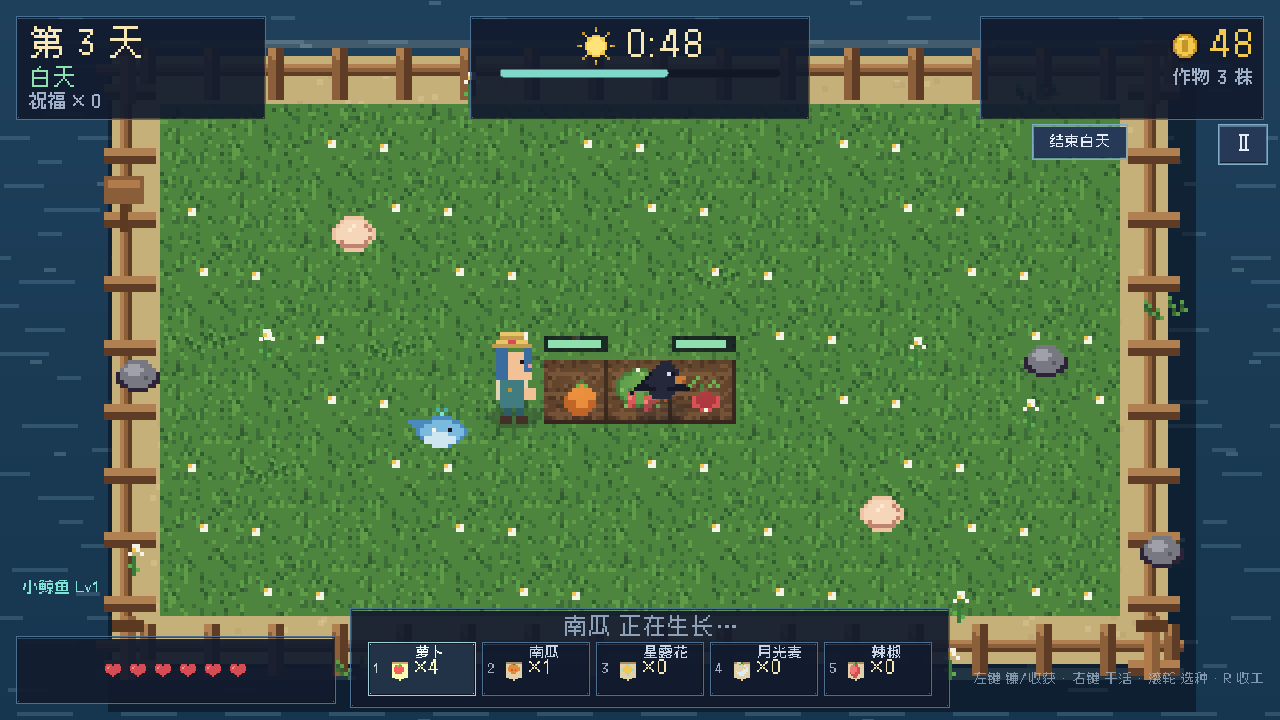
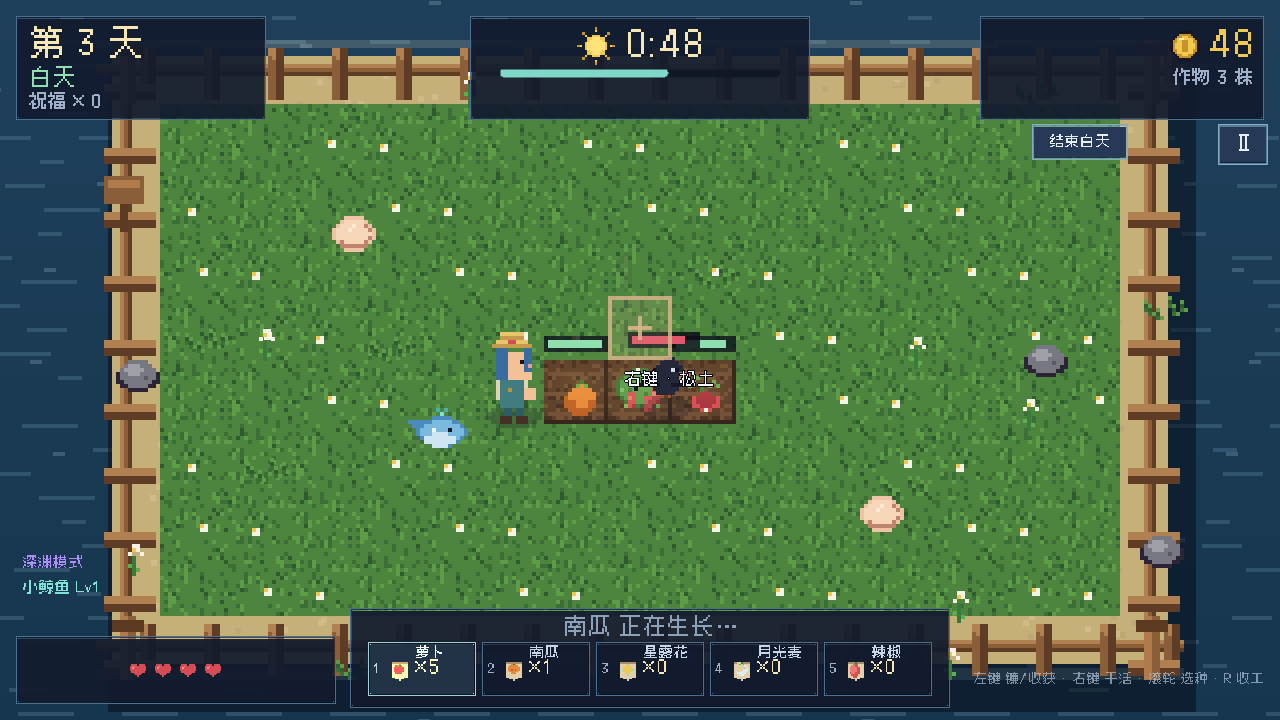
v2.4.0: abyss difficulty, charge/thorns, double wave, boss radial phases

diff --git a/README.md b/README.md
@@ -14,11 +14,12 @@
 ![雾港](screenshots/shot_mist.png)
 ![鼠标交互](screenshots/shot_mouse.png)
 ![白天活动](screenshots/shot_daylife.png)
+![深渊](screenshots/shot_abyss.png)
 ![南瓜王](screenshots/shot_boss.png)
 
 ## 玩法
 
-- **白天（75 秒）**：走到田里，按互动键松土 → 播种 → 浇水 → 收获。作物只在浇过水之后生长。
+- **白天（80 秒）**：走到田里，按互动键松土 → 播种 → 浇水 → 收获。作物只在浇过水之后生长。
 - **天气**：每天有雨天、雾天、雷雨等随机天气。雨天/雷雨会自动浇灌所有作物（包括新种下的）；雾天视野变灰；雷雨会闪电并配雨声。
 - **夜晚**：潮水带来史莱姆、偷穗鸦、缠根怪、沼泽蛙和铁甲虫。用镰刀清场；乌鸦会优先啃食成熟的作物。萤火虫会飘在田上。
 - **黎明**：三选一随机祝福，然后可以在**潮汐商店**用金币买种子、回血、加生命上限。
@@ -80,24 +81,27 @@
 
 ## 难度
 
-标题界面的「难度」按钮循环切换，默认 **困难**：
+标题界面的「难度」按钮循环切换四档，默认 **困难**；想要真上强度就选 **深渊**：
 
 | 难度 | 初始生命 | 初始金币 | 敌人生命 | 敌人速度 | 夜潮数量 | 刷怪间隔 | 海鸥频率 |
 | --- | --- | --- | --- | --- | --- | --- | --- |
 | 休闲 | 7 | 22 | ×0.90 | ×0.95 | ×0.85 | ×1.15 | ×1.30 |
 | 标准 | 6 | 18 | ×1.00 | ×1.00 | ×1.00 | ×1.00 | ×1.00 |
 | 困难 | 5 | 12 | ×1.35 | ×1.30 | ×1.45 | ×0.75 | ×0.65 |
+| 深渊 | 4 | 8 | ×1.55 | ×1.45 | ×1.80 | ×0.62 | ×0.50 |
 
-- 敌人速度还会随天数增长（每天 +4.5%），困难模式的无敌帧也从 0.9s 缩到约 0.59s。
-- 困难模式普通怪出生时额外 +5% 精英概率；Boss 同样吃生命/速度倍率。
+- 敌人速度还会随天数增长（每天 +4.5%）；困难无敌帧约 0.59s，深渊约 0.45s。
+- **困难/深渊专属能力**：史莱姆会蓄力冲锋；缠根怪会远程发射绿色棘刺。
+- **深渊双波**：清完第一波后不会直接结束夜晚，会再刷一波约 70% 数量的怪。
+- **Boss 多阶段**：66% / 33% 血量时召唤小怪并各放一次 8/12 发环形种子弹幕，阶段越高射速越快。
 - 难度写在存档设置里；一局开始后不能改，回到标题再切。
 
 ## 下载
 
 到 [Releases](https://github.com/ElectLive/whale-fall-farm/releases) 下载最新版：
 
-- Windows：`WhaleFallFarm-v2.3.0-win64.zip` — 解压双击 `WhaleFallFarm.exe`，绿色免安装，存档在 exe 旁边。
-- Android：`WhaleFallFarm-v2.3.0-android.apk` — Android 7.0+ / arm64，允许「安装未知来源应用」即可安装。APK 使用调试证书签名，适合直接安装试玩，不适合上架应用商店。
+- Windows：`WhaleFallFarm-v2.4.0-win64.zip` — 解压双击 `WhaleFallFarm.exe`，绿色免安装，存档在 exe 旁边。
+- Android：`WhaleFallFarm-v2.4.0-android.apk` — Android 7.0+ / arm64，允许「安装未知来源应用」即可安装。APK 使用调试证书签名，适合直接安装试玩，不适合上架应用商店。
 
 ## 从源码运行
 
@@ -142,7 +146,7 @@ python tools/gen_audio.py   # 4 首循环 BGM + 17 个音效 + 1 条雨声（需
 
 ```bash
 # 无头逻辑测试：种田、昼夜、商店、祝福、Boss、无尽、天气、移动端触控、存档
-Godot --headless --path . -- --selftest     # 85/85 PASS
+Godot --headless --path . -- --selftest     # 91/91 PASS
 
 # 实时冒烟测试：真的种一轮、传送到怪身边砍死几只、进入黎明
 Godot --headless --path . -- --smoke
@@ -208,6 +212,7 @@ docs/
 - **v2.1.0** — 鼠标交互重做：左键点地移动/点田干活、右键挥镰、滚轮选种、悬停高亮与操作提示、点击落点圆环、HUD 暂停按钮；左键不再误触攻击。
 - **v2.2.0** — 左键攻击/收获，右键移动/松土/播种/浇水；白天新增偷菜海鸥、贝壳/海星采集、R/「结束白天」提前收工（作物按剩余时间生长）。
 - **v2.3.0** — 三档难度（默认困难）：困难模式敌人生命/速度/数量全面上调、刷怪更快、海鸥更频繁、初始 5 血 12 金、无敌帧更短；标题界面可切。
+- **v2.4.0** — 第四档「深渊」：4 血 8 金、敌人 ×1.55 生命/×1.45 速度/×1.80 数量；史莱姆冲锋、缠根怪远程棘刺、深渊夜晚双波；Boss 66%/33% 血量环形弹幕与更快射速。
 
 ## 20 次更新记录
 

diff --git a/CHANGELOG.md b/CHANGELOG.md
@@ -3,6 +3,21 @@
 All notable changes to Whale Fall Farm are documented here.
 Format follows [Keep a Changelog](https://keepachangelog.com/); versions use semver.
 
+## v2.4.0 — 2026-10-30
+
+### Added
+
+- **Fourth difficulty 深渊 (Abyss)**: 4 HP, 8 gold, enemy HP ×1.55, speed ×1.45, wave count ×1.80, spawn ×0.62, gull ×0.50, invuln ×0.50, elite +10%.
+- **Enemy abilities** on hard/abyss: slimes charge-dash at close range; vines fire green thorn projectiles.
+- **Abyss double wave**: after clearing the first night wave, a second wave at 70% strength spawns before dawn.
+- **Boss multi-phase attacks**: at 66% / 33% HP the Pumpkin King summons and fires 8 / 12 radial seed bursts; attack cooldown drops with phase.
+- `--shot=abyss` scenario; selftest covers abyss stats, charge, thorns, second wave and radial burst.
+
+### Changed
+
+- Title difficulty cycle now covers four levels; HUD label adds 深渊模式.
+- Difficulty arrays extended; default remains 困难.
+
 ## v2.3.0 — 2026-10-30
 
 ### Added
@@ -218,7 +233,8 @@ Format follows [Keep a Changelog](https://keepachangelog.com/); versions use sem
 - Fully procedural pixel art (Pillow), chiptune music and SFX (numpy), Cubic 11 font.
 - Headless self-test (`--selftest`), real-time smoke test (`--smoke`), screenshot tooling.
 
-[Unreleased]: https://github.com/ElectLive/whale-fall-farm/compare/v2.3.0...main
+[Unreleased]: https://github.com/ElectLive/whale-fall-farm/compare/v2.4.0...main
+[v2.4.0]: https://github.com/ElectLive/whale-fall-farm/releases/tag/v2.4.0
 [v2.3.0]: https://github.com/ElectLive/whale-fall-farm/releases/tag/v2.3.0
 [v2.2.0]: https://github.com/ElectLive/whale-fall-farm/releases/tag/v2.2.0
 [v2.1.0]: https://github.com/ElectLive/whale-fall-farm/releases/tag/v2.1.0

diff --git a/docs/design.md b/docs/design.md
@@ -122,9 +122,18 @@
 | 休闲 | 7 | 22 | 0.90 | 0.95 | 0.85 | 1.15 | 1.30 | 1.10 | 0 |
 | 标准 | 6 | 18 | 1.00 | 1.00 | 1.00 | 1.00 | 1.00 | 1.00 | 0 |
 | 困难 | 5 | 12 | 1.35 | 1.30 | 1.45 | 0.75 | 0.65 | 0.65 | +5% |
+| 深渊 | 4 | 8 | 1.55 | 1.45 | 1.80 | 0.62 | 0.50 | 0.50 | +10% |
 
 - 敌人速度还乘 `1 + 4.5% × (day-1)`；夜潮数量在 `night_plan` 构造完后统一乘难度系数并向上取整。
 - 难度只影响战斗/经济压力，不改作物价格、天气概率和祝福池。
+
+### 深渊机制
+
+- **史莱姆冲锋**（困难/深渊）：距离 <78px 时蓄力 0.3s，以 3.2 倍速度冲刺，冷却 3.2s（深渊 2.6s）。
+- **缠根怪棘刺**（困难/深渊）：距离 36–150px 时每 3.6s（深渊 2.8s）发射一枚绿色棘刺弹，速度 74，伤害 1。
+- **双波夜潮**（仅深渊）：第一波清空后不立刻黎明，再刷 70% 数量的一波；`second_wave_done` 防重复。
+- **Boss 多阶段**：66% / 33% 血量时召唤 + 8 / 12 发环形弹幕，射击间隔 3.2 → 2.6 → 1.4s。
+- 这些机制都复用现有种弹/召唤/移动框架，不新增资源包；`--shot=abyss` 可复现展示。
 
 ### 鼠标交互
 

diff --git a/docs/devlog.md b/docs/devlog.md
@@ -1,5 +1,22 @@
 # 开发日志
 
+## v2.4.0 — 2026-10-30
+
+### 内容
+
+- **深渊模式**（第四档）：4 血 / 8 金；敌人生命 ×1.55、速度 ×1.45、夜潮 ×1.80、刷怪间隔 ×0.62、
+  海鸥 ×0.50、无敌帧 ×0.50、精英 +10%。
+- **敌人能力**（困难/深渊）：史莱姆近身蓄力冲锋；缠根怪发射绿色棘刺（复用种子弹，提速/tint）。
+- **深渊双波**：清完第一波后刷第二波（约 70% 数量），再清完才进黎明。
+- **Boss 多阶段**：66%/33% 血量召唤 + 8/12 发环形种子弹幕；阶段越高射速越快（3.2→1.4s）。
+- 标题难度循环 4 档；HUD 左下显示「深渊模式」；`--shot=abyss` 演示。
+
+### 验证记录
+
+- `--selftest`：**91/91 PASS**（四档难度、深渊 4 血 8 金、史莱姆冲锋、藤蔓棘刺、第二波、Boss 环形弹幕）。
+- 截图：`shot_abyss.png`（深渊 HUD、Boss 阶段弹幕、冲锋/棘刺敌人）。
+- 版本 2.4.0，Android versionCode 12。
+
 ## v2.3.0 — 2026-10-30
 
 ### 内容

diff --git a/docs/updates20.md b/docs/updates20.md
@@ -51,3 +51,4 @@
 - **v2.1.0（2026-10-30）**：鼠标交互重做——左键点地移动/点田干活、右键挥镰、滚轮选种、悬停高亮与操作提示、点击落点圆环、HUD 暂停按钮。20 次计划之外的体验补强。
 - **v2.2.0（2026-10-30）**：左键攻击/收获、右键移动/放置；白天偷菜海鸥、贝壳/海星采集、R/「结束白天」提前收工（作物按剩余时间生长）。
 - **v2.3.0（2026-10-30）**：三档难度（默认困难）；敌人生命/速度/数量、刷怪间隔、海鸥频率、初始血量金币全面上调；HUD/标题显示难度。
+- **v2.4.0（2026-10-30）**：第四档深渊（4 血 8 金、×1.55 生命/×1.45 速度/×1.80 数量）；史莱姆冲锋、缠根怪远程棘刺、深渊双波、Boss 环形弹幕多阶段。
